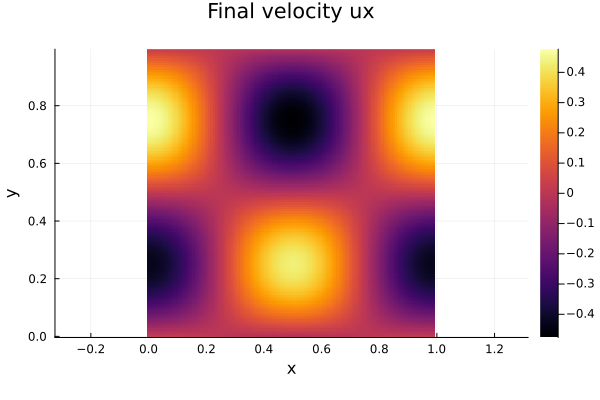
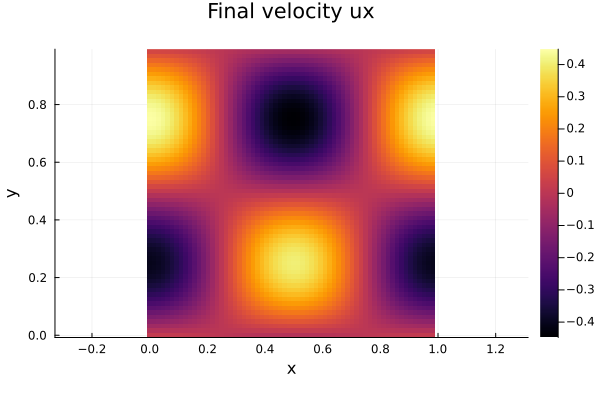
README updated

diff --git a/README.md b/README.md
@@ -88,6 +88,62 @@ Newton-style method (`NewtonRaphson`) using `AutoForwardDiff` for Jacobian
 information. A fixed step size `dt` is used by default; the solver advances
 until the final time in `tspan`.
 
+## Jacobian Matrix Layouts for 2D (3-Variable System)
+
+## 1. Baseline: Single Variable (Scalar 2D)
+If $U$ is just a single scalar (e.g., density $\rho$), grid has $N = N_x \times N_y$ total cells.
+*   **State Vector:** $\mathbf{U} = [\rho_1, \rho_2, \dots, \rho_N]^T$
+*   **Stencil Impact:** Because of the 2D 5-point stencil (Center, Left, Right, Bottom, Top), the Jacobian is an $N \times N$ matrix with exactly **5 non-zero bands**:
+    *   **Main diagonal:** The cell itself ($C$).
+    *   **Two adjacent off-diagonals:** Left ($L$) and Right ($R$) neighbors.
+    *   **Two far off-diagonals:** Bottom ($B$) and Top ($T$) neighbors, located $\pm N_x$ rows away.
+
+This 5-banded structure is often referred to as a **block-tridiagonal matrix** (where the blocks are $N_x \times N_x$ matrices representing entire rows of the grid).
+
+---
+
+## 2. 3 Variables
+Now, $U$ represents 3 quantities: $[\rho, m_x, m_y]$. Total number of unknowns is $3N$. The Jacobian becomes $3N \times 3N$ matrix. They way those 5 original bands map into this matrix depends on the memory layout.
+
+### Layout 1: Interleaved (Array of Structs)
+Memory is ordered cell-by-cell:
+$$ \mathbf{U} = [\rho_1, m_{x1}, m_{y1}, \rho_2, m_{x2}, m_{y2}, \dots, \rho_N, m_{xN}, m_{yN}]^T $$
+
+*   **Structure:** The matrix looks exactly like the scalar block-tridiagonal matrix, but every single scalar entry **"inflates"** into a dense $3 \times 3$ block.
+*   **Mapping:** Where the scalar matrix had a scalar linking cell $c$ to its right neighbor $r$, the interleaved matrix has a $3 \times 3$ dense block mapping the 3 equations of cell $c$ to the 3 variables of cell $r$:
+
+$$ \text{Scalar Entry} \rightarrow \begin{bmatrix} \frac{\partial R^\rho}{\partial \rho} & \frac{\partial R^\rho}{\partial m_x} & \frac{\partial R^\rho}{\partial m_y} \\[6pt] \frac{\partial R^{m_x}}{\partial \rho} & \frac{\partial R^{m_x}}{\partial m_x} & \frac{\partial R^{m_x}}{\partial m_y} \\[6pt] \frac{\partial R^{m_y}}{\partial \rho} & \frac{\partial R^{m_y}}{\partial m_x} & \frac{\partial R^{m_y}}{\partial m_y} \end{bmatrix} $$
+
+*   **Result:** A pentadiagonal/block-tridiagonal matrix where the bands are 3 elements thick.
+
+### Layout 2: Stacked (Struct of Arrays) — *Used in code*
+Memory is ordered variable-by-variable (grouping all densities, then all x-momentums, then all y-momentums):
+$$ \mathbf{U} = [\rho_1 \dots \rho_N, \;\; m_{x1} \dots m_{xN}, \;\; m_{y1} \dots m_{yN}]^T $$
+
+*   **Structure:** The $3 \times 3$ blocks are shattered. The entire Jacobian is partitioned into a $3 \times 3$ grid of $N \times N$ sub-matrices:
+
+$$ \mathbf{J} = \begin{bmatrix} \mathbf{J}_{\rho, \rho} & \mathbf{J}_{\rho, m_x} & \mathbf{J}_{\rho, m_y} \\[6pt] \mathbf{J}_{m_x, \rho} & \mathbf{J}_{m_x, m_x} & \mathbf{J}_{m_x, m_y} \\[6pt] \mathbf{J}_{m_y, \rho} & \mathbf{J}_{m_y, m_x} & \mathbf{J}_{m_y, m_y} \end{bmatrix} $$
+
+*   **Sparsity Benefit:** Every single one of those 9 sub-matrices ($\mathbf{J}_{\rho,\rho}$, $\mathbf{J}_{\rho,m_x}$, etc.) shares the **exact same 5-banded pentadiagonal sparsity pattern** as the single-variable scalar case.
+*   **Example:** $\mathbf{J}_{m_x, \rho}$ is an $N \times N$ pentadiagonal matrix describing how the x-momentum equation in every cell reacts to changes in density in neighboring cells.
+
+---
+
+## 3. Our `jac_prototype` Code
+Our code uses the **Stacked Layout** ($u = [\rho; m_x; m_y]$), we must explicitly build that $3 \times 3$ grid of sub-matrices using loop offsets:
+
+```julia
+row = row_var * ncells + cell 
+col = col_var * ncells + neighbor
+```
+
+*   `cell` and `neighbor` trace out the standard 5-banded pentadiagonal structure within an $N \times N$ space.
+*   `row_var * ncells` shifts the row index down into the correct equation block (e.g., row block 0 for $\rho$, block 1 for $m_x$).
+*   `col_var * ncells` shifts the column index right into the correct variable block (e.g., col block 0 for $\rho$, block 1 for $m_x$).
+
+**Summary:** Moving from 1 to 3 variables either **inflates the bands** to be 3-elements thick (Interleaved) or **duplicates the banded structure** into a $3 \times 3$ grid of identical sparsity patterns (Stacked).
+
+
 ## I/O / plotting
 
 - After the solve the code reshapes the flattened solution into grids and